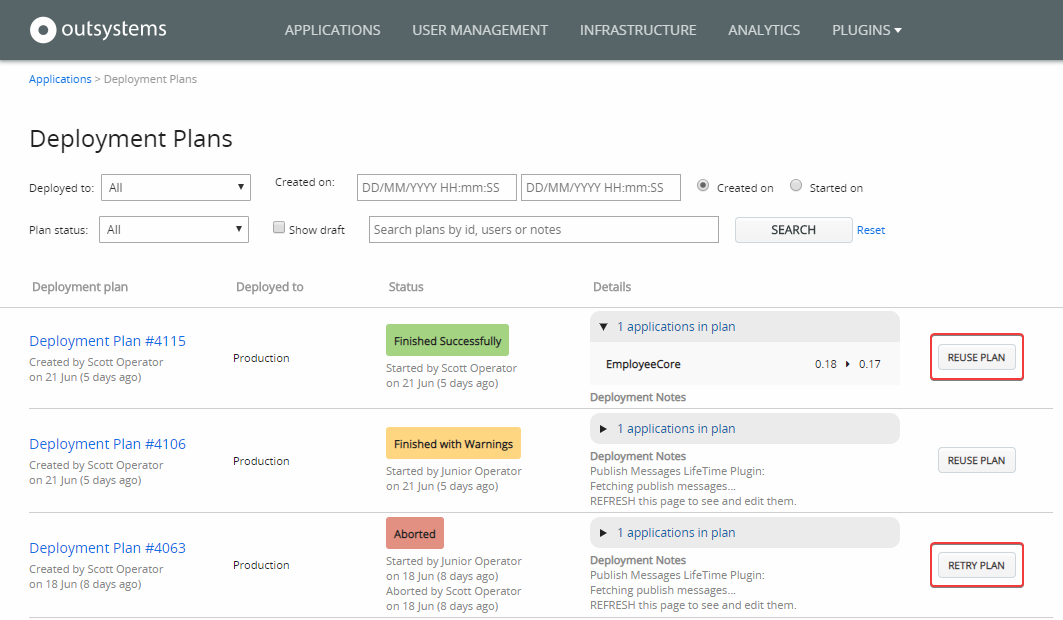
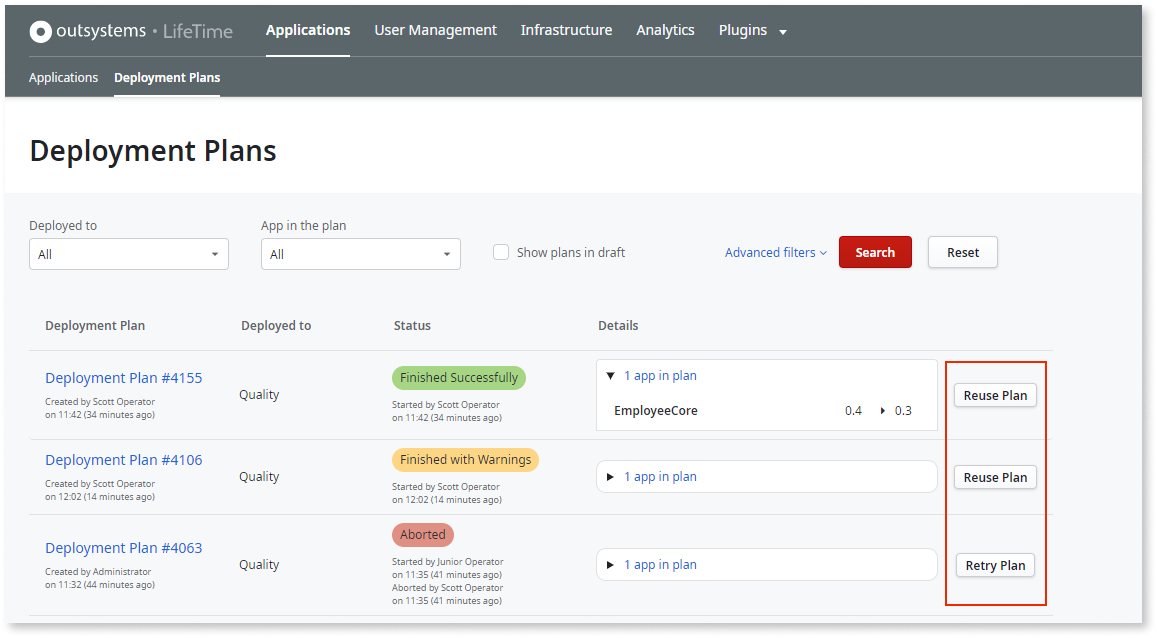
Updated screenshots witl the new page filter. Some tweaks in the text.

diff --git a/src/managing-the-applications-lifecycle/deploy-applications/deployment-plans.md b/src/managing-the-applications-lifecycle/deploy-applications/deployment-plans.md
@@ -4,7 +4,7 @@ summary: Use deployment plans to take changes done in applications from one envi
 
 # Deployment Plans
 
-A **deployment plan** allows you deploy application changes like new features and fixes, performed in one environment, to a different environment, for example from Development to QA.
+A **deployment plan** allows you to deploy application changes, like new features and fixes, performed in one environment to a different environment, for example from Development to QA.
 
 A deployment plan can contain:
 
@@ -13,7 +13,7 @@ A deployment plan can contain:
 * Deployment notes
 * Settings like [Site Property values](tp-configure-site-properties-during-deploy.md)
 
-You can create deployment plans in LifeTime, on the **Deployment Plans** screen, under the **Applications** area.
+You create deployment plans in LifeTime, on the **Deployment Plans** screen under the **Applications** area.
 
 You can also create a deployment plan by [reusing a finished plan](#reuse) or [retrying an aborted plan](#retry).
 
@@ -25,58 +25,55 @@ Open the Deployment Plans screen by clicking **Deployment Plans** under the **Ap
 
 ![](images/deployment-plans-option-lt.png)
 
-From this screen you can perform several operations like retrying an aborted deployment plan and reusing a finished deployment plan. The available operations on each plan depend on the plan's status.
+From this screen you can perform several operations like retrying an aborted deployment plan, or reusing a finished deployment plan. The available operations on each plan depend on the plan's status.
 
 ![](images/deployment-plans-list-lt.png)
 
 ## Reusing a deployment plan { #reuse }
 
-Reusing a deployment plan will get you faster deployments by not having to create deployment plans from scratch. You can reuse any finished deployment plan that was not aborted.
+Reusing a deployment plan gets you faster deployments by not having to create deployment plans from scratch. You can reuse any finished deployment plan that wasn't aborted.
 
  This operation is especially useful in the following situations:
 
-* **You are deploying to sequential environments in your infrastructure.** For example, you first deployed from DEV to QA and now you wish to deploy the same applications and versions from QA to PRD.  
-    In this case you will reuse a recently finished plan to deploy applications to the next environment.
+* **You are deploying to sequential environments in your infrastructure.** For example, you first deployed from Development to QA, and now you wish to deploy the same applications and versions from QA to Production. In this case, you can reuse a recently finished plan to deploy applications to the next environment.
 
-* **You are creating a new deployment plan very similar to a previous one.** Reusing an existing plan helps you reduce the risk of making mistakes, since you will not have to create the deployment plan from scratch.  
-    In this case you will search for the desired plan in the Deployment Plans screen and choose the "Reuse Plan" operation.
+* **You are creating a new deployment plan very similar to a previous one.** Reusing an existing plan helps you reduce the risk of making mistakes, since you don't have to create the deployment plan from scratch. In this case, you can search for the desired plan in the Deployment Plans screen and choose the Reuse Plan operation.
 
-The new deployment plan, reused from an existing one, will have the same applications (if they're available in the selected source environment) and, optionally, the same tagged versions of those applications.
+The new deployment plan, reused from an existing one, has the same applications (if they're available in the selected source environment) and, optionally, the same tagged versions of those applications.
 
-To reuse a deployment plan from the Deployment Plans screen do the following:
+To reuse a deployment plan from the Deployment Plans screen, do the following:
 
-1. Open the Deployment Plans screen from the Applications screen.
+1. Open the **Deployment Plans** screen under the **Applications** area.
 
-    ![](images/deployment-plans-option-lt.png)
+1. Find the plan you wish to reuse in the plans list. You can search for the plan using several criteria. Expand the **Advanced filters** for more search options.
 
-1. Find the plan you wish to reuse in the plan list. You can search for the plan using several criteria, and use the **Advanced filters** for more search options.
+    ![](images/deployment-plans-reuse-lt.png)
 
-    ![](images/deployment-plans-list-lt.png)
+1. Click **Reuse Plan**. This operation is available for all finished plans that weren't aborted.
 
-1. Click **Reuse Plan**. This operation is available for all finished plans that were not aborted.
-
-1. In the pop-up window, choose the **source** and **target** environments for the new plan.
+1. In the pop-up window, choose the **source** and the **target** environments for the new plan.
 
     ![](images/deployment-plans-reuse-popup-lt.png)
 
 You can choose to keep the tags that were in the source plan by selecting **Keep the tags used in the original plan**.  
+
 In this case, if some of the tagged versions of the original plan are not available for deployment (for example, if the version is not available in the selected source environment or if there's a more recent version of an application in the selected target environment), you will get a feedback message stating this situation, and you will be able to adjust the new deployment plan accordingly.  
 
 If you don't select this option, the plan will contain the same applications but with the latest tags available for deployment.
 
 **Notes:**
 
-* The Reuse Plan operation is only available for finished deployment plans that were not aborted. For aborted plans, use the [Retry Plan](#retry) operation.
+* The Reuse Plan operation is only available for finished deployment plans that weren't aborted. For aborted plans, use the [Retry Plan](#retry) operation.
 
-* You can select any source and target environments, as long as the source environment has at least **one** application contained in the source plan. When you select a source environment that doesn't contain **any application** from the source plan, the pop-up will show a warning and you will not be able to move forward.
+* You can select any source and target environments, as long as the source environment has at least **one** application contained in the source plan. When you select a source environment that doesn't contain **any application** from the source plan, the pop-up shows a warning, and you cannot to move forward.
 
-* When you select a source environment that doesn't contain **some** of the applications in the source plan, the pop-up will show a message telling you that those applications will not be available in the new plan.
+* When you select a source environment that doesn't contain **some** of the applications in the source plan, the pop-up shows a message telling you that those applications will not be available in the new plan.
 
 ## Retrying an aborted deployment plan { #retry }
 
 A deployment plan can be aborted manually by an operator or by the OutSystems platform, due to some issue that occurs during deployment.
 
-When this happens, you don't need to create a new deployment plan from scratch to try to execute the same deployment operation, i.e. a deployment with the same applications and the same versions. In these situations you can **retry the deployment plan**, which is an operation available for all aborted deployment plans.
+When this happens, you don't need to create a new deployment plan from scratch to try to execute the same deployment operation - a deployment with the same applications and the same versions. In these situations, you can **retry the deployment plan**, which is an operation available for all aborted deployment plans.
 
 The retry operation does the following:
 
@@ -84,15 +81,13 @@ The retry operation does the following:
 
 1. Navigates to the new deployment plan detail screen, allowing you to make some adjustments to the plan before executing it.
 
-To retry a deployment plan from the Deployment Plans screen do the following:
+To retry a deployment plan from the Deployment Plans screen, do the following:
 
-1. Open the Deployment Plans screen from the Applications screen.
+1. Open the **Deployment Plans** screen under the **Applications** area.
 
-    ![](images/deployment-plans-option-lt.png)
+1. Find the aborted plan you wish to retry in the plans list. You can search for the plan using several criteria. Expand the **Advanced filters** for more search options.
 
-1. Find the aborted plan you wish to retry in the plan list. You can search for the plan using several criteria.
-
-    ![](images/deployment-plans-list-lt.png)
+    ![](images/deployment-plans-retry-lt.png)
 
 1. Click **Retry Plan**. This operation is available for all aborted plans.
 
@@ -100,8 +95,8 @@ To retry a deployment plan from the Deployment Plans screen do the following:
 
 When you're retrying a deployment plan the following situations may arise due to changes in the source or in the target environment:
 
-* If the source environment no longer contains **some** of the applications in the original plan, LifeTime will show a pop-up with a message telling you that those applications will not be available in the new plan.
+* If the source environment no longer contains **some** of the applications from the original plan, LifeTime shows a pop-up with a message telling you that those applications will not be available in the new plan.
 
-* If the source environment no longer contains **any** application from the original plan, LifeTime will show a pop-up with a warning and you will not be able to move forward.
+* If the source environment no longer contains **any** application from the original plan, LifeTime shows a pop-up with a warning, and you cannot move forward.
 
-* If some of the **tagged versions** are not available for deployment anymore when you retry the plan (for example, if a more recent version of an application was already deployed to the target environment), LifeTime will show you a feedback message stating this situation and you will be able to adjust the new deployment plan accordingly.
+* If some of the **tagged versions** aren't available for deployment anymore when you retry the plan (for example, if a more recent version of an application was already deployed to the target environment), LifeTime shows you a feedback message stating this situation, and you'll be able to adjust the new deployment plan accordingly.
